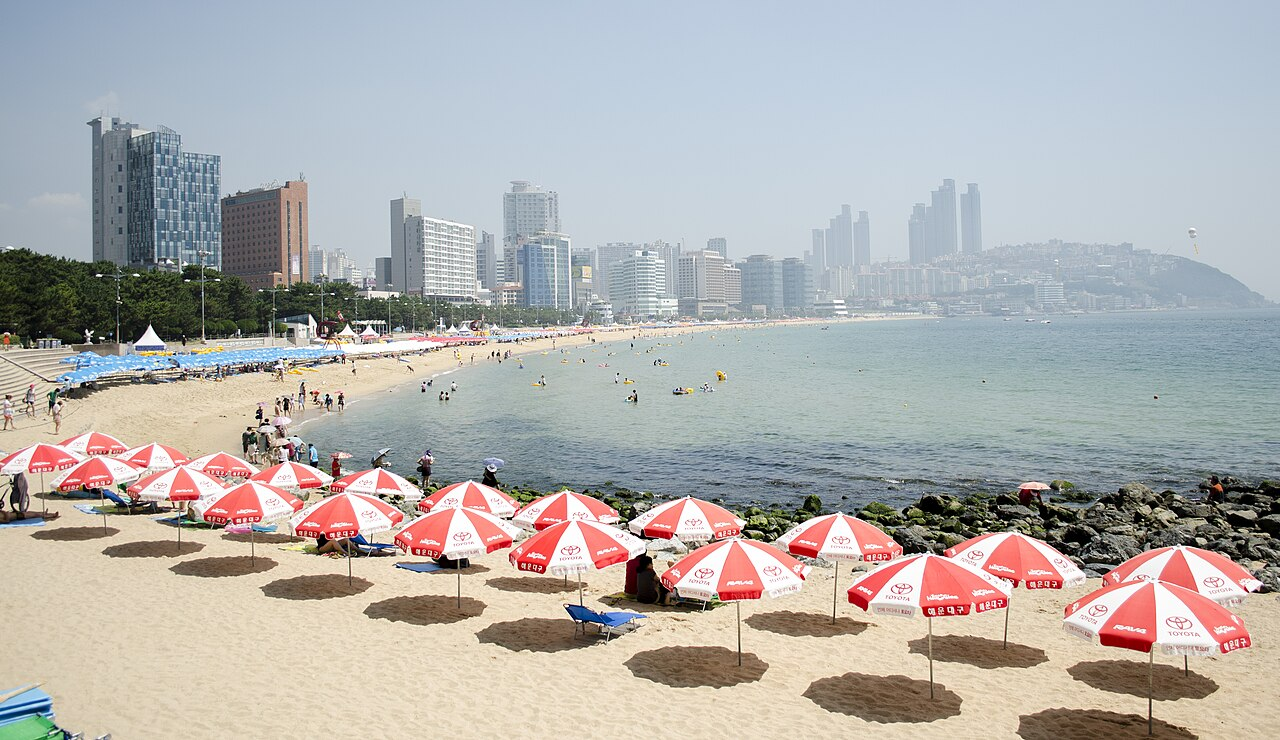
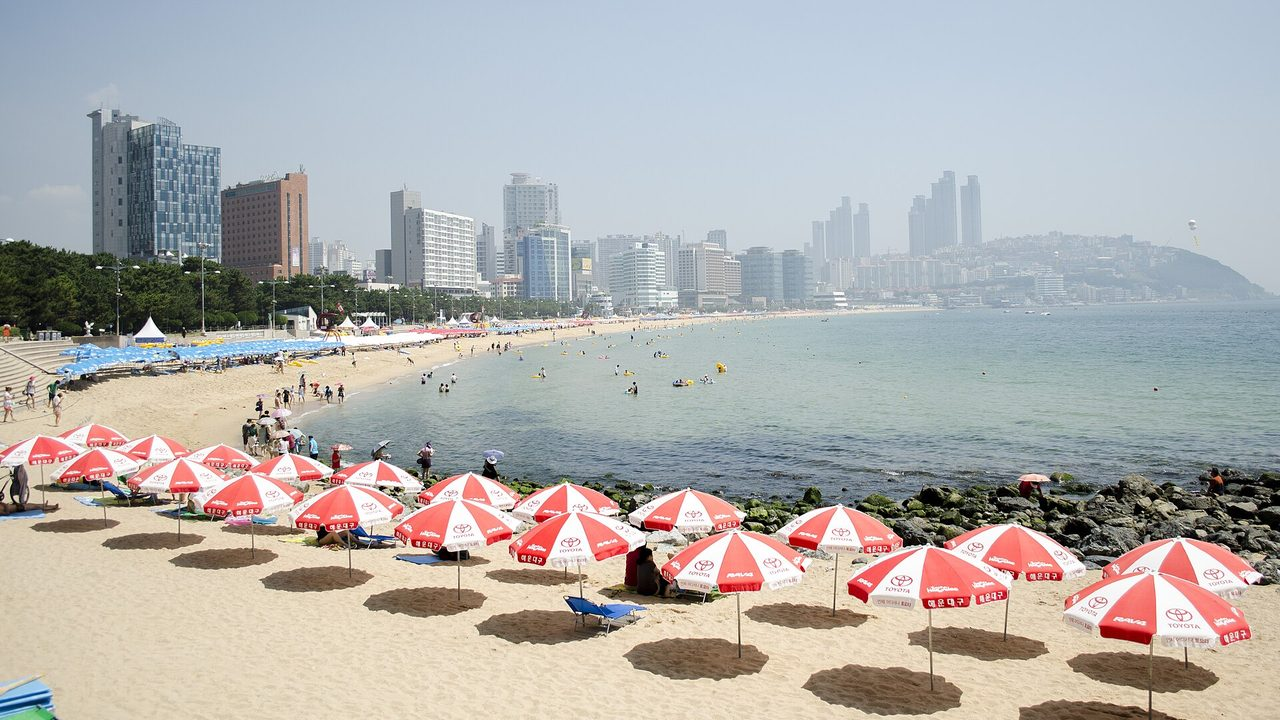
feat: 지역별 대표 명소 사진 15장 추가
- 서울·부산·제주·경주·전주 다섯 지역에 명소 사진을 세 장씩 배치
- Wikimedia Commons의 CC BY-SA·CC BY·CC0·KOGL 사진을 1280x720 16:9로 크롭
- 명소별 한글 이름과 로마자 표기를 regionSpots에 함께 정의
- 사진 출처와 라이선스를 CREDITS.md에 정리
- 지역당 사진이 세 장이 되면서 히어로 진행바가 실제로 동작

diff --git a/Mobile/src/features/home/constants/regionSpots.ts b/Mobile/src/features/home/constants/regionSpots.ts
@@ -10,6 +10,8 @@ export type RegionSpot = {
  * 여행지별 대표 명소. 키는 `DESTINATIONS_28`의 도시 이름과 같아야 한다.
  * 한 지역당 1~5장을 넣으며, 사진 개수에 따라 히어로 진행바가 자동으로 맞춰진다.
  * 사진이 없는 지역은 키를 비워 두면 화면이 안내 문구로 대체한다.
+ *
+ * 사진 출처와 라이선스는 src/assets/images/home/CREDITS.md 참고.
  */
 export const REGION_SPOTS: Record<string, RegionSpot[]> = {
   서울: [
@@ -18,19 +20,49 @@ export const REGION_SPOTS: Record<string, RegionSpot[]> = {
       roman: 'Gyeongbokgung',
       image: require('../../../assets/images/home/seoul-gyeongbokgung.jpg'),
     },
+    {
+      place: '북촌한옥마을',
+      roman: 'Bukchon Hanok Village',
+      image: require('../../../assets/images/home/seoul-bukchon.jpg'),
+    },
+    {
+      place: '남산서울타워',
+      roman: 'N Seoul Tower',
+      image: require('../../../assets/images/home/seoul-namsan.jpg'),
+    },
   ],
   부산: [
     {
-      place: '해운대',
-      roman: 'Haeundae',
+      place: '해운대해수욕장',
+      roman: 'Haeundae Beach',
       image: require('../../../assets/images/home/busan-haeundae.jpg'),
+    },
+    {
+      place: '감천문화마을',
+      roman: 'Gamcheon Culture Village',
+      image: require('../../../assets/images/home/busan-gamcheon.jpg'),
+    },
+    {
+      place: '광안대교',
+      roman: 'Gwangan Bridge',
+      image: require('../../../assets/images/home/busan-gwangan.jpg'),
     },
   ],
   제주: [
     {
       place: '성산일출봉',
       roman: 'Seongsan Ilchulbong',
-      image: require('../../../assets/images/home/jeju-seongsan-ilchulbong.jpg'),
+      image: require('../../../assets/images/home/jeju-seongsan.jpg'),
+    },
+    {
+      place: '한라산',
+      roman: 'Hallasan',
+      image: require('../../../assets/images/home/jeju-hallasan.jpg'),
+    },
+    {
+      place: '협재해수욕장',
+      roman: 'Hyeopjae Beach',
+      image: require('../../../assets/images/home/jeju-hyeopjae.jpg'),
     },
   ],
   경주: [
@@ -39,12 +71,32 @@ export const REGION_SPOTS: Record<string, RegionSpot[]> = {
       roman: 'Cheomseongdae',
       image: require('../../../assets/images/home/gyeongju-cheomseongdae.jpg'),
     },
+    {
+      place: '불국사',
+      roman: 'Bulguksa',
+      image: require('../../../assets/images/home/gyeongju-bulguksa.jpg'),
+    },
+    {
+      place: '동궁과 월지',
+      roman: 'Donggung and Wolji',
+      image: require('../../../assets/images/home/gyeongju-wolji.jpg'),
+    },
   ],
   전주: [
     {
-      place: '한옥마을',
-      roman: 'Hanok Village',
-      image: require('../../../assets/images/home/jeonju-hanok-village.jpg'),
+      place: '전주한옥마을',
+      roman: 'Jeonju Hanok Village',
+      image: require('../../../assets/images/home/jeonju-hanok.jpg'),
+    },
+    {
+      place: '경기전',
+      roman: 'Gyeonggijeon',
+      image: require('../../../assets/images/home/jeonju-gyeonggijeon.jpg'),
+    },
+    {
+      place: '오목대',
+      roman: 'Omokdae',
+      image: require('../../../assets/images/home/jeonju-omokdae.jpg'),
     },
   ],
 };

diff --git a/Mobile/src/assets/images/home/CREDITS.md b/Mobile/src/assets/images/home/CREDITS.md
@@ -1,0 +1,30 @@
+# 히어로 사진 출처
+
+`src/assets/images/home/` 아래 지역별 대표 명소 사진의 출처와 라이선스입니다.
+모두 Wikimedia Commons에서 받았고 1280×720(16:9)으로 크롭·리사이즈했습니다.
+
+| 파일 | 지역 | 명소 | 원본 파일명 | 라이선스 |
+|---|---|---|---|---|
+| `seoul-gyeongbokgung.jpg` | 서울 | 경복궁 | Front view of the Imperial Throne Hall Geunjeongjeon at Gyeongbokgung Palace with blue sky in Seoul.jpg | CC BY-SA 4.0 |
+| `seoul-bukchon.jpg` | 서울 | 북촌한옥마을 | Bukchon-ro 11-gil street with hanok houses at blue hour in Bukchon Hanok Village Seoul.jpg | CC BY-SA 4.0 |
+| `seoul-namsan.jpg` | 서울 | 남산서울타워 | Downtown Seoul from Inwangsan in 2023.jpg | KOGL Type 1 |
+| `busan-haeundae.jpg` | 부산 | 해운대해수욕장 | Haeundae Beach in Busan.jpg | CC BY 2.0 |
+| `busan-gamcheon.jpg` | 부산 | 감천문화마을 | Colorful houses in Gamcheon Culture Village at sunset in Busan South Korea.jpg | CC BY-SA 4.0 |
+| `busan-gwangan.jpg` | 부산 | 광안대교 | Gwangan Bridge1.jpg | Public domain |
+| `jeju-seongsan.jpg` | 제주 | 성산일출봉 | Hydrangea macrophylla in front of Seongsan Ilchulbong volcano at blue hour in Jeju Island South Korea.jpg | CC BY-SA 4.0 |
+| `jeju-hallasan.jpg` | 제주 | 한라산 | Wooden staircase along Yeongsil Trail with the mountains of Hallasan Park Jeju Island South Korea.jpg | CC BY-SA 4.0 |
+| `jeju-hyeopjae.jpg` | 제주 | 협재해수욕장 | Hyeopjae Beach Scenery.jpg | CC BY-SA 4.0 |
+| `gyeongju-cheomseongdae.jpg` | 경주 | 첨성대 | Cheomseongdae Observatory under blue sky in Gyeongju South Korea.jpg | CC BY-SA 4.0 |
+| `gyeongju-bulguksa.jpg` | 경주 | 불국사 | Bulguksa temple entrance gate stairs flower bed and blue sky in Gyeongju South Korea.jpg | CC BY-SA 4.0 |
+| `gyeongju-wolji.jpg` | 경주 | 동궁과 월지 | Water reflection of Donggung Palace in Wolji Pond at blue hour in Gyeongju South Korea.jpg | CC BY-SA 4.0 |
+| `jeonju-hanok.jpg` | 전주 | 전주한옥마을 | Jeonju- Part I - Jeonju3120.jpg | CC0 |
+| `jeonju-omokdae.jpg` | 전주 | 오목대 | Omokdae 20230408 008.jpg | CC BY-SA 4.0 |
+| `jeonju-gyeonggijeon.jpg` | 전주 | 경기전 | 경기전 정전 (2021).jpg | CC BY-SA 4.0 |
+
+## 사용 조건
+
+CC BY-SA / CC BY / KOGL 사진은 **출처와 라이선스 표기**가 필요합니다.
+앱을 배포할 경우 설정 화면 등에 이 목록을 노출하거나,
+한국관광공사 TourAPI처럼 별도 이용 조건을 갖춘 이미지로 교체해 주세요.
+
+원본은 `https://commons.wikimedia.org/wiki/File:<원본 파일명>` 에서 확인할 수 있습니다.
